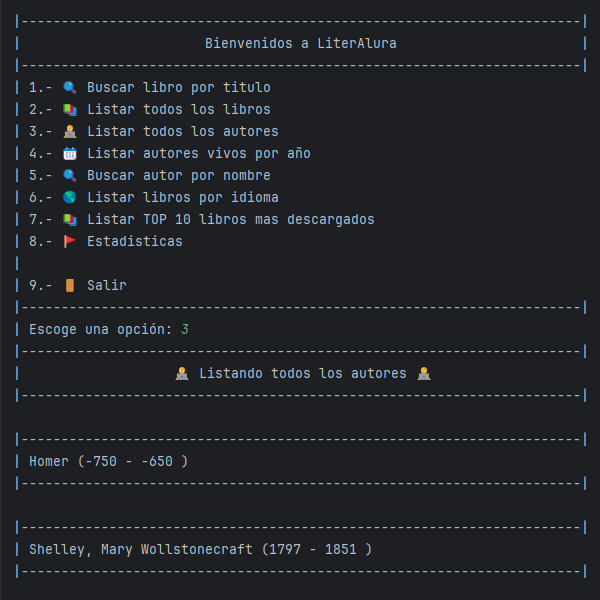
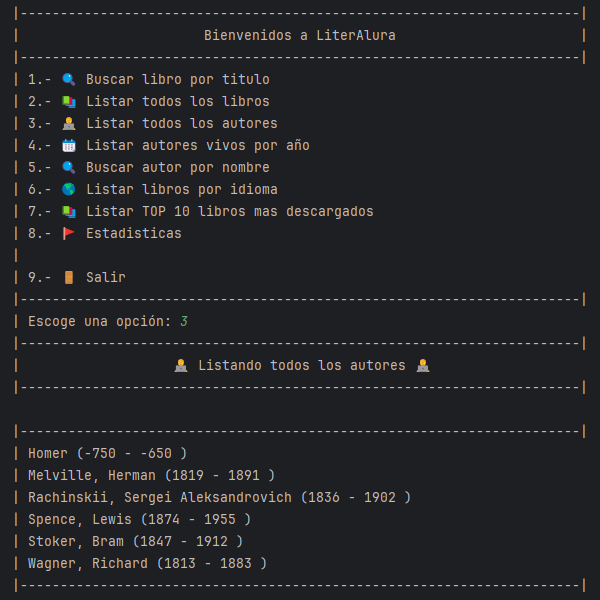
Actualiza README y application.properties

diff --git a/src/main/java/com/d2mp/library/model/Person.java b/src/main/java/com/d2mp/library/model/Person.java
@@ -27,8 +27,12 @@ public class Person {
 
     public Person(DataPerson dataPerson){
         this.nombre = dataPerson.nombre();
-        this.nacimiento = Long.valueOf(dataPerson.nacimiento());
-        this.fallecimiento = Long.valueOf(dataPerson.fallecimiento());
+        if (dataPerson.nacimiento()==null){
+            this.nacimiento = 0L;
+        } else this.nacimiento = Long.valueOf(dataPerson.nacimiento());
+        if(dataPerson.fallecimiento()==null){
+            this.fallecimiento = 0L;
+        }else this.fallecimiento = Long.valueOf(dataPerson.fallecimiento());
     }
 
     public String getNombre() {

diff --git a/src/main/java/com/d2mp/library/control/Control.java b/src/main/java/com/d2mp/library/control/Control.java
@@ -137,8 +137,8 @@ public class Control {
                 Person person = new Person(dataAPI.get().datosAutors().getFirst());
                 personRepository.save(person);
             }
-            Long idBook = dataAPI.get().id();
-            if(bookRepository.findById(idBook).isEmpty()){
+            String tituloBuscado = dataAPI.get().titulo();
+            if(bookRepository.searchByTitulo(tituloBuscado)==null){
                 Book book = new Book(dataAPI.get());
                 bookRepository.save(book);
             }

diff --git a/src/main/java/com/d2mp/library/repository/BookRepository.java b/src/main/java/com/d2mp/library/repository/BookRepository.java
@@ -7,6 +7,8 @@ import org.springframework.data.jpa.repository.Query;
 import java.util.List;
 
 public interface BookRepository extends JpaRepository<Book, Long> {
+    @Query(value = "SELECT * FROM books WHERE titulo=:titulo LIMIT 1;", nativeQuery = true)
+    String searchByTitulo(String titulo);
     List<Book> findByIdiomas(String idiomas);
     @Query(value = "SELECT * FROM books ORDER BY numero_de_descargas DESC LIMIT 10;", nativeQuery = true)
     List<Book> top10BooksDownloads();

diff --git a/README.md b/README.md
@@ -54,6 +54,36 @@ Para mayor referencia, considere las siguientes secciones:
 6. Ejecuta la aplicación.
    * `mvn spring-boot:run`
 
+## Overview
+### Menú Principal
+![Menu Principal](assets/menu_principal.png)
+### Opción 1
+![Opcion 1](assets/opcion1.png)
+### Opción 2
+![Opcion 2](assets/opcion2.png)
+### Opción 3
+![Opcion 3](assets/opcion3.png)
+### Opción 4
+![Opcion 4](assets/opcion4.png)
+### Opción 5
+![Opcion 5](assets/opcion5.png)
+### Opción 6
+![Opcion 6_1](assets/opcion6_1.png)
+![Opcion 6_2](assets/opcion6_2.png)
+![Opcion 6_3](assets/opcion6_3.png)
+### Opción 7
+![Opcion 7](assets/opcion7.png)
+### Opción 8
+![Opcion 8](assets/opcion8.png)
+### Opción 9
+![Opcion 9](assets/opcion9.png)
+
+## Insignia obtenida
+   <img align="center" src="assets/badge-literalura.png" width="200" alt="badge-alura">
+
+## Licencia
+GNU General Public License v3.0
+
 ## Créditos
 Este proyecto fue creado por Darwin Mireles.
 
